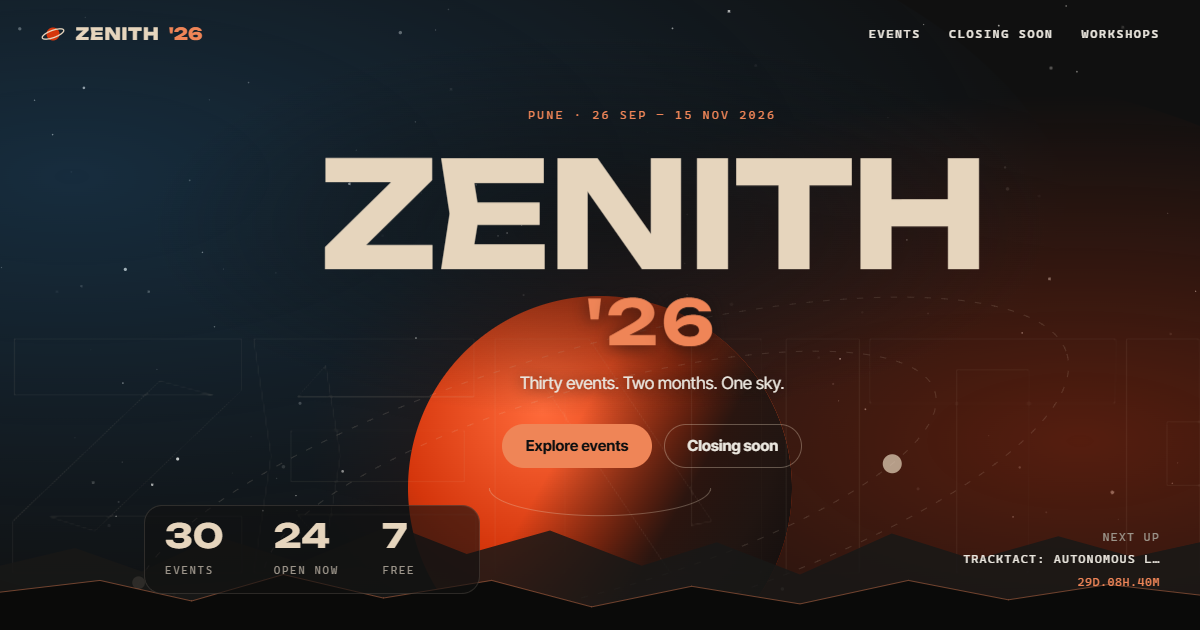
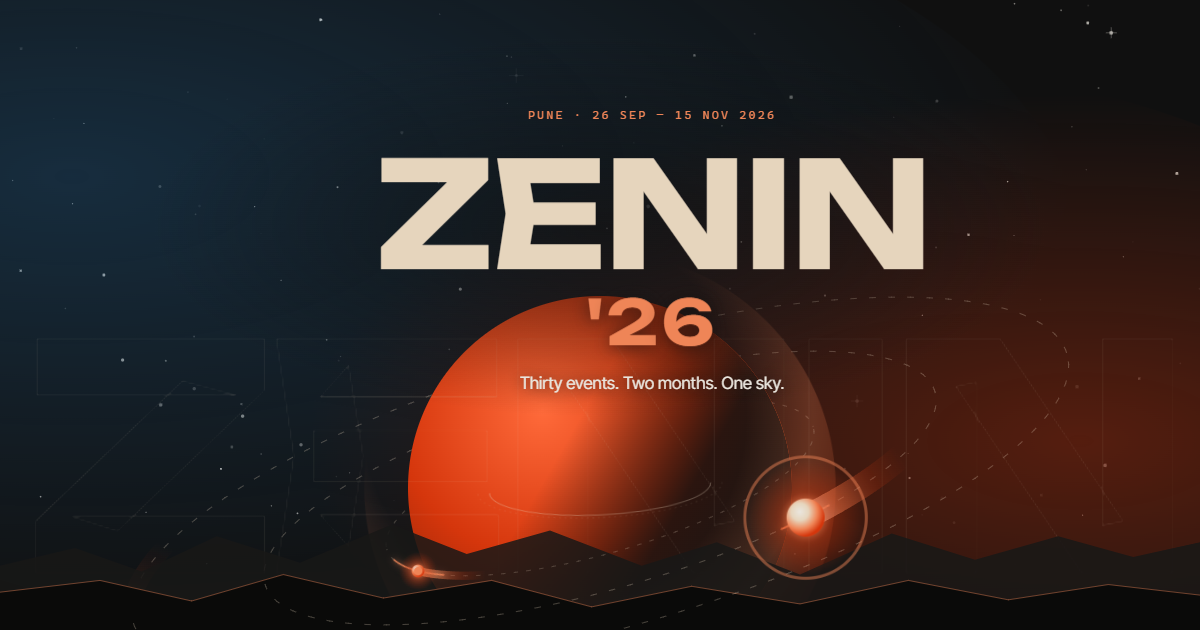
test: rocket flight, landing and launch-back e2e; docs: README covers the new motion; chore: Zenin share image
Claude-Session: https://claude.ai/code/session_01WCuN6c7rR783Tn7fyRj4Pq

diff --git a/e2e/app.spec.ts b/e2e/app.spec.ts
@@ -139,3 +139,27 @@ test.describe('accessibility', () => {
     })
   }
 })
+
+test.describe('scroll rocket', () => {
+  test('rides to the end of the page, lands, and launches back to the top', async ({ page }) => {
+    await page.goto('/events')
+    await page.mouse.move(200, 300)
+    // Wheel scrolling is the visitor's path (Lenis owns scrolling on desktop) and also mounts the lazy rocket.
+    await expect
+      .poll(
+        async () => {
+          await page.mouse.wheel(0, 4000)
+          return page.getByRole('button', { name: /launch again/i }).isVisible()
+        },
+        { timeout: 20_000 },
+      )
+      .toBe(true)
+
+    const results = await new AxeBuilder({ page }).withTags(['wcag2a', 'wcag2aa']).analyze()
+    const blocking = results.violations.filter((v) => v.impact === 'serious' || v.impact === 'critical')
+    expect(blocking.map((v) => `${v.id}: ${v.nodes.length} node(s)`)).toEqual([])
+
+    await page.getByRole('button', { name: /launch again/i }).click()
+    await expect.poll(() => page.evaluate(() => window.scrollY), { timeout: 10_000 }).toBeLessThan(5)
+  })
+})

diff --git a/README.md b/README.md
@@ -14,7 +14,7 @@ All content comes from the Render72 Events API (`GET /api/test/events`, `GET /ap
 | **Responsiveness** | Designed and tested at 375, 768, 1280 and 1440 px with no horizontal scroll (automated check). A floating icon rail on desktop becomes a thumb-reach bottom navigation on phones and tablets. |
 | **Backend error handling** | Every request has a 6 s timeout and retries up to 3 times with backoff and jitter (5xx, 429, network, timeout). Then it falls back to the last good cached copy, then to a bundled offline snapshot. Malformed responses are validated: broken items are dropped, the rest render. Empty data, server errors, slow servers, unreadable data and not-found each have their own designed state with a retry. Failures can be demonstrated on demand, see below. |
 | **Scalability readiness** | In-memory + `localStorage` cache with stale-while-revalidate (5 min freshness), one shared in-flight request per resource, detail prefetch on hover/focus, 12-at-a-time pagination with an IntersectionObserver sentinel, `content-visibility: auto` on off-screen cards, long-lived immutable caching headers for assets. |
-| **Design & creativity** | A cosmic festival-poster language in the Render72 palette: a pinned, layered 3D hero you dive through on scroll (drawn entirely in SVG/CSS/canvas, no image assets), ticket-stub event cards, mono micro-labels, hairline rules. |
+| **Design & creativity** | A cosmic festival-poster language in the Render72 palette: a pinned, layered 3D hero you dive through on scroll (drawn entirely in SVG/CSS/canvas, no image assets) with glowing moons that orbit behind and in front of the planet trailing comet tails; a little rocket that flies down the page with you on every route and touches down at the end ("Launch again" returns to the top); live ticker bands, shooting stars, twinkling dust and constellation tiles; ticket-stub event cards, mono micro-labels, hairline rules. All motion is transform/opacity only, pauses offscreen, loads after first interaction where it needs JavaScript, and becomes a still composition under `prefers-reduced-motion`. |
 | **Features & UX** | URL-driven filters (shareable and deep-linkable), search, sort, grid/list, month grouping, live countdowns to deadlines, seats meters, add-to-calendar, share, clear archive handling (finished events never offer registration). |
 
 ## Demonstrating failures
@@ -43,7 +43,9 @@ src/
   components/
     ui/           shared primitives: badges, meters, countdown, skeletons, error/empty/stale states, SEO
     layout/       top bar, rail, bottom nav, footer, error boundary
-    hero/         the pinned 3D hero
+    hero/         the pinned 3D hero, orbiting moons, shooting stars
+    rocket/       the scroll-following rocket (lazy chunk) and its flight maths
+    ambient/      marquee, sparkles, shooting stars, in-view pausing
     home/ events/ detail/   page-specific components
   pages/          Home, Events, EventDetail, NotFound
 scripts/          build-time snapshot of the API (offline fallback + sitemap)
